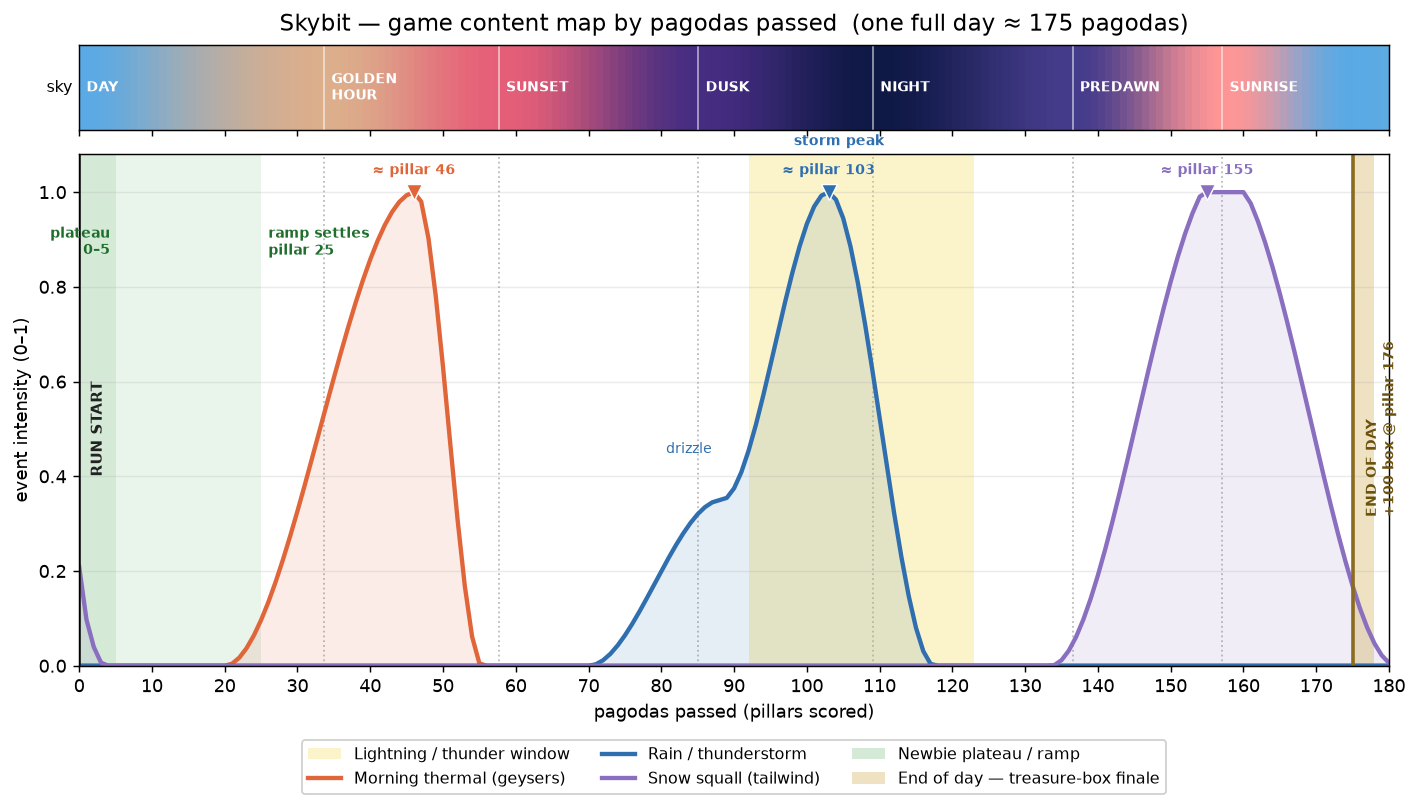
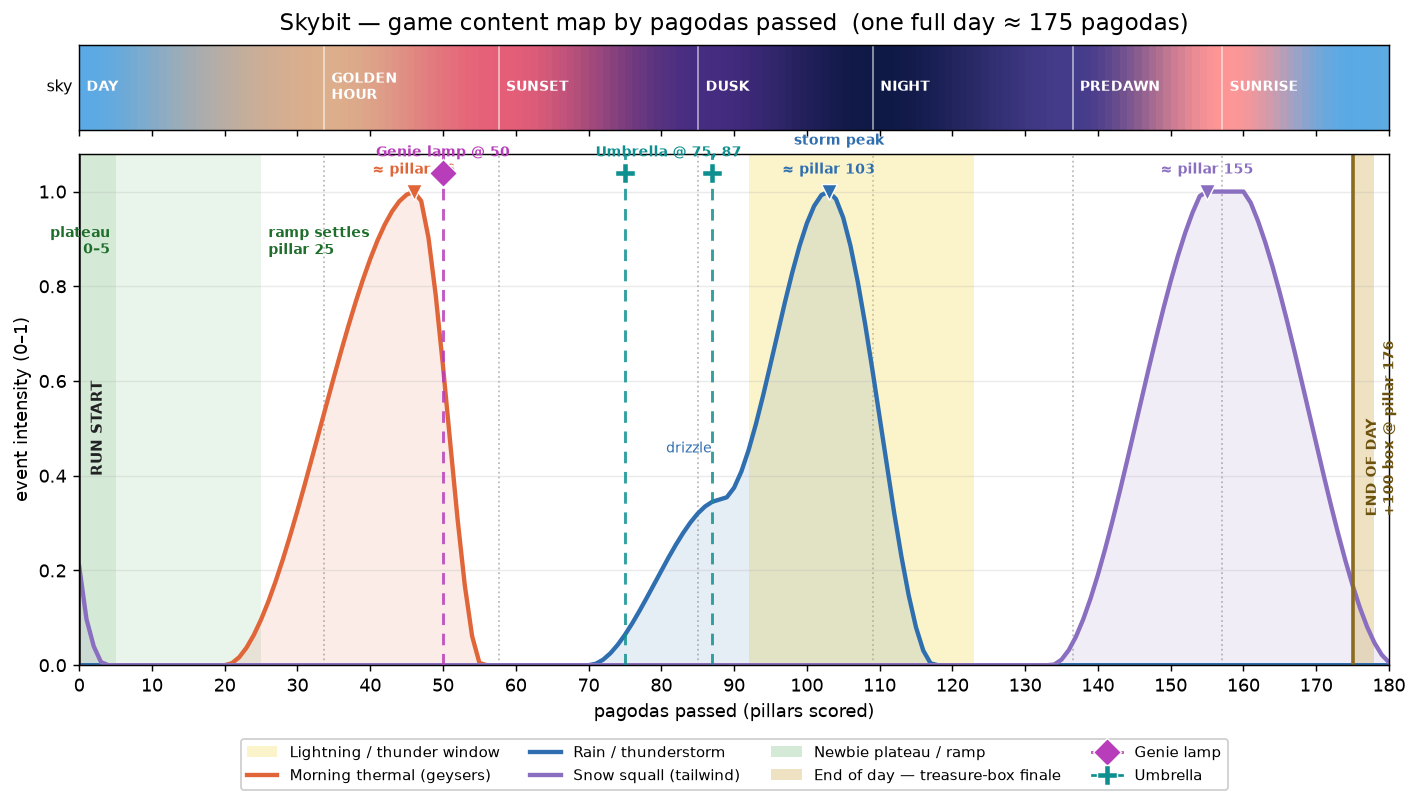
docs: mark the fixed-pillar power-ups (genie lamp, umbrellas) on the content map
The two pickups placed at hard-coded pillars rather than the random spawn roll —
the genie lamp at LATE_GAME_PILLAR and the rain umbrellas at UMBRELLA_SPAWN_PILLARS
— now show as anchored markers, so the run's deterministic content is all in one view.

Claude-Session: https://claude.ai/code/session_01R8Xv9wnQCdkf5ozFZzZReZ

diff --git a/tools/plot_event_pagoda_map.py b/tools/plot_event_pagoda_map.py
@@ -12,8 +12,10 @@ including the first-pillar seeded travel and the onboarding ramp), so every
 landmark lands on the real gameplay axis.
 
 Shows the three GAMEPLAY weather events (morning-thermal geysers, rain /
-thunderstorm, snow squall), the end-of-day treasure-box finale, and the newbie
-plateau + ramp. Cosmetic-only phenomena (calm breeze, dawn mist) are omitted.
+thunderstorm, snow squall), the two fixed-pillar power-up pickups (the genie
+lamp milestone + the rain umbrellas), the end-of-day treasure-box finale, and
+the newbie plateau + ramp. Cosmetic-only phenomena (calm breeze, dawn mist) are
+omitted.
 """
 from __future__ import annotations
 
@@ -167,6 +169,26 @@ def main() -> None:
             rotation=90, fontsize=8, fontweight="bold", color="#6b520f",
             va="center", ha="left")
 
+    # ── anchored power-ups — pickups placed at FIXED pillars (not the random
+    # spawn roll): the genie lamp milestone and the two rain umbrellas. ───────
+    POWERUP_ANCHORS = [
+        ("Genie lamp", [config.LATE_GAME_PILLAR], "#b83dba", "D"),
+        ("Umbrella", list(config.UMBRELLA_SPAWN_PILLARS), "#0f9090", "P"),
+    ]
+    for label, xs, color, mk in POWERUP_ANCHORS:
+        for j, x in enumerate(xs):
+            ax.axvline(x, color=color, linestyle=(0, (4, 3)), linewidth=1.6,
+                       alpha=0.85, zorder=4)
+            ax.plot([x], [1.04], marker=mk, color=color, markersize=11,
+                    markeredgecolor="white", markeredgewidth=0.8,
+                    clip_on=False, zorder=6,
+                    label=(label if j == 0 else None))
+        mid = sum(xs) / len(xs)
+        tag = f"{label} @ {', '.join(str(x) for x in xs)}"
+        ax.annotate(tag, (mid, 1.04), textcoords="offset points",
+                    xytext=(0, 9), ha="center", fontsize=7.5, color=color,
+                    fontweight="bold", clip_on=False)
+
     # Run-start marker + biome gridlines carried into the lower panel.
     ax.axvline(0, color="#222", linewidth=2)
     ax.annotate("RUN START", (0, 0.5), xytext=(6, 0),
@@ -185,8 +207,8 @@ def main() -> None:
 
     handles, labels = ax.get_legend_handles_labels()
     ax.legend(handles, labels, loc="upper center",
-              bbox_to_anchor=(0.5, -0.13), ncol=3, framealpha=0.92,
-              fontsize=9)
+              bbox_to_anchor=(0.5, -0.13), ncol=4, framealpha=0.92,
+              fontsize=8.5)
 
     fig.tight_layout()
     out_path = os.path.join(out_dir, "event_pagoda_map.png")
@@ -198,6 +220,8 @@ def main() -> None:
         ys = [fn(ph) for ph in phases]
         pk_i = max(range(len(ys)), key=lambda i: ys[i])
         print(f"  {label}: peak at pillar {pillars[pk_i]} (intensity {ys[pk_i]:.2f})")
+    print(f"  Genie lamp: anchored at pillar {config.LATE_GAME_PILLAR}")
+    print(f"  Umbrella: anchored at pillars {config.UMBRELLA_SPAWN_PILLARS}")
 
 
 if __name__ == "__main__":
